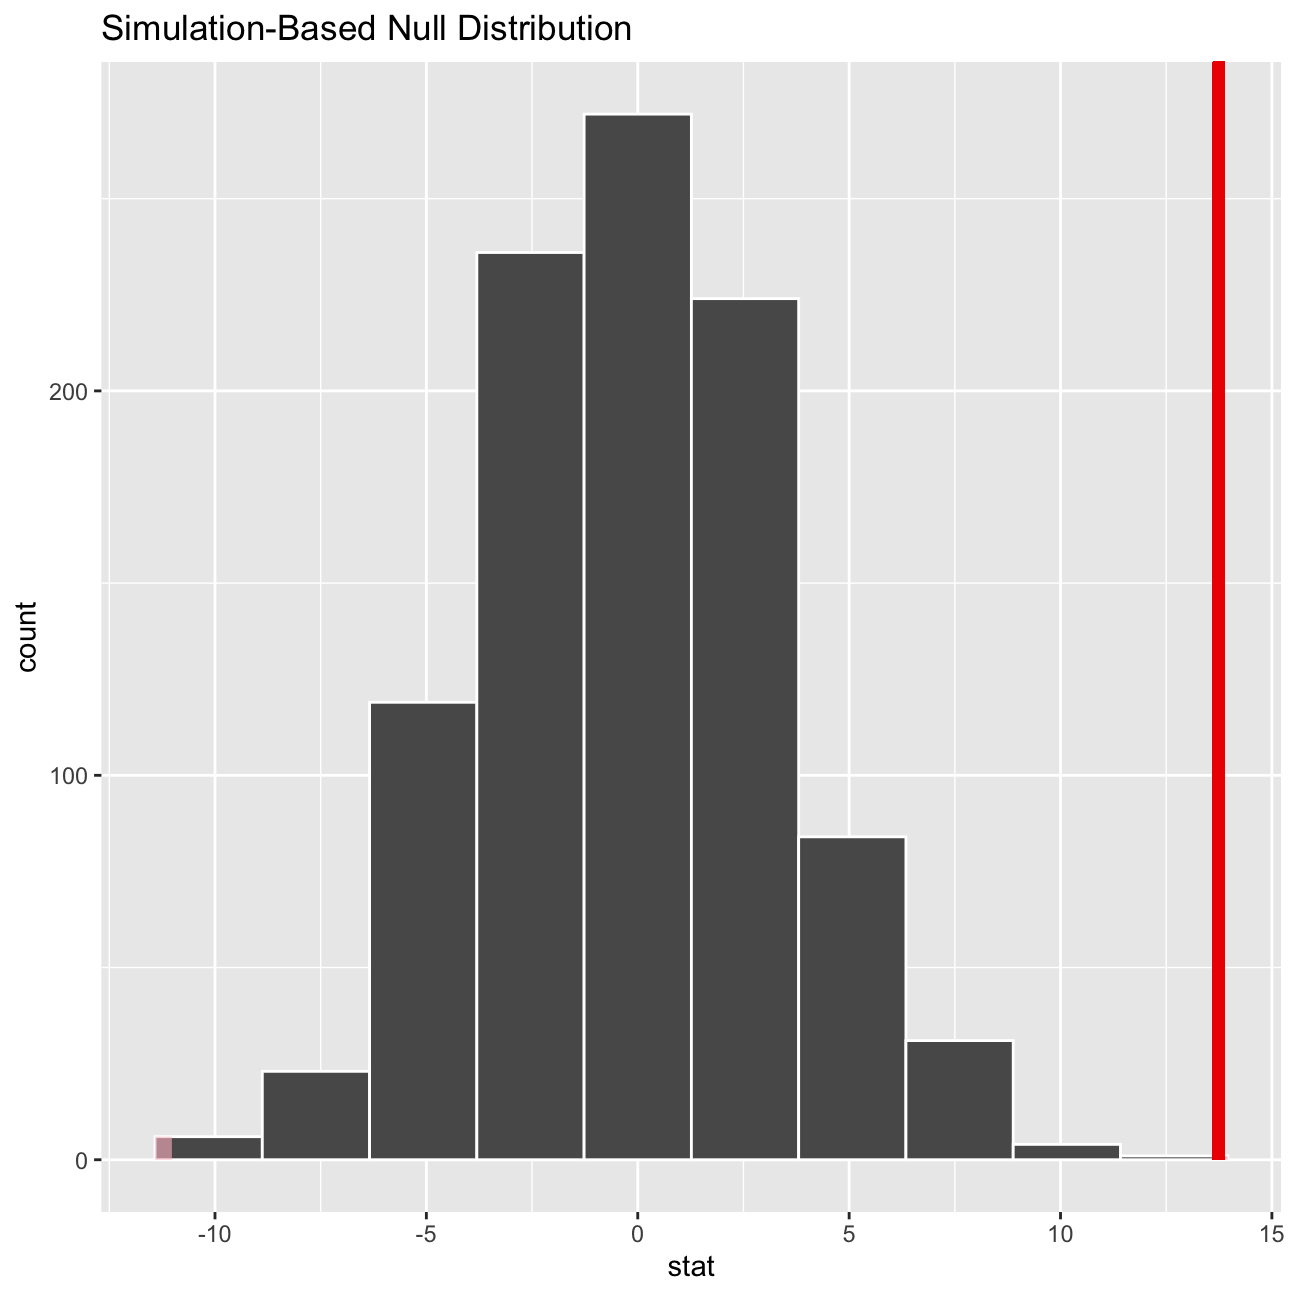
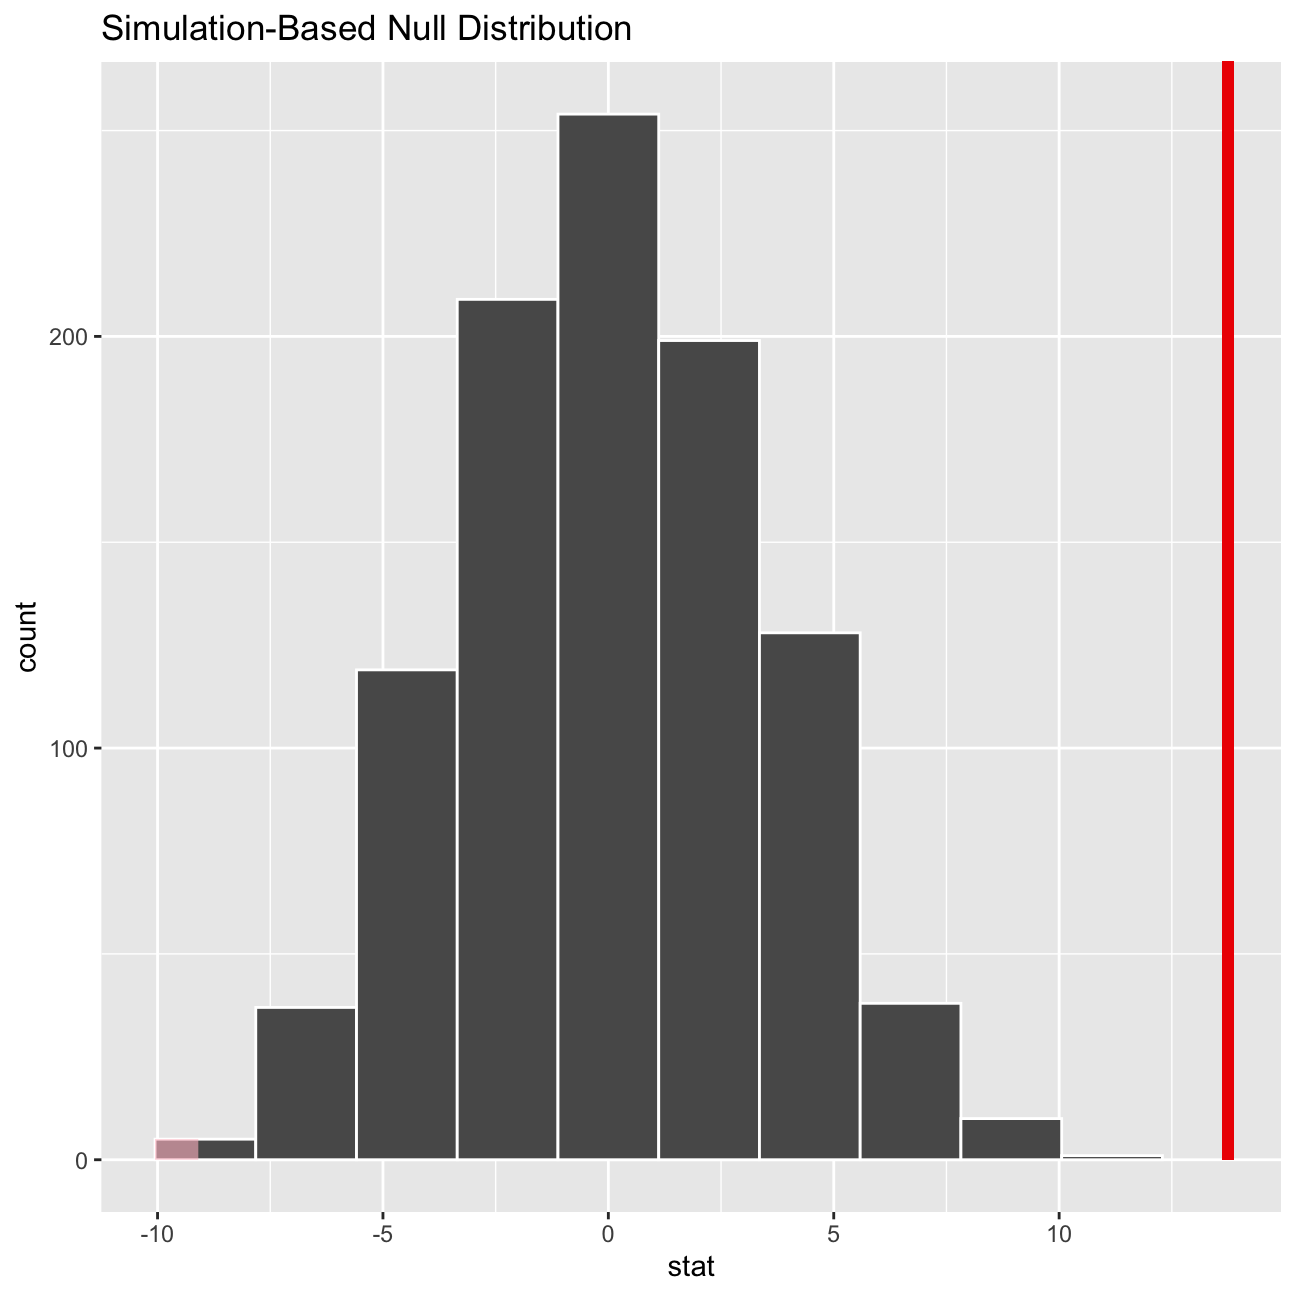
df

diff --git a/public/projects/project4/index.html b/public/projects/project4/index.html
@@ -81,8 +81,8 @@
                             
 
 
-<div id="omega-group---pay-discrimination" class="section level1">
-<h1>Omega Group - Pay Discrimination</h1>
+<p><img src="https://img.jakpost.net/c/2020/05/20/2020_05_20_95707_1589954243._large.jpg" alt="Equal Pay" />
+# Omega Group - Pay Discrimination</p>
 <p>At the last board meeting of Omega Group Plc., the headquarters of a large multinational company, the issue was raised that women were being discriminated in the company, in the sense that the salaries were not the same for male and female executives. A quick analysis of a sample of 50 employees (of which 24 men and 26 women) revealed that the average salary for men was about 8,700 higher than for women. This seemed like a considerable difference, so it was decided that a further analysis of the company salaries was warranted.</p>
 <div id="loading-the-data" class="section level2">
 <h2>Loading the data</h2>
@@ -237,16 +237,16 @@ null_distribution</code></pre>
 <pre><code>## # A tibble: 1,000 x 2
 ##    replicate   stat
 ##        &lt;int&gt;  &lt;dbl&gt;
-##  1         1  4118.
-##  2         2  -973.
-##  3         3  1539.
-##  4         4  3027.
-##  5         5 -1932.
-##  6         6  5738.
-##  7         7 -2725.
-##  8         8 -3362.
-##  9         9  2258.
-## 10        10  -866.
+##  1         1  3068.
+##  2         2   432.
+##  3         3  2696.
+##  4         4 -2692.
+##  5         5 -1155.
+##  6         6  5399.
+##  7         7  1762.
+##  8         8  1547.
+##  9         9 -2775.
+## 10        10   845.
 ## # … with 990 more rows</code></pre>
 <pre class="r"><code># visualize the p-value 
 
@@ -413,16 +413,16 @@ null_distribution</code></pre>
 <pre><code>## # A tibble: 1,000 x 2
 ##    replicate   stat
 ##        &lt;int&gt;  &lt;dbl&gt;
-##  1         1  4118.
-##  2         2  -973.
-##  3         3  1539.
-##  4         4  3027.
-##  5         5 -1932.
-##  6         6  5738.
-##  7         7 -2725.
-##  8         8 -3362.
-##  9         9  2258.
-## 10        10  -866.
+##  1         1  3068.
+##  2         2   432.
+##  3         3  2696.
+##  4         4 -2692.
+##  5         5 -1155.
+##  6         6  5399.
+##  7         7  1762.
+##  8         8  1547.
+##  9         9 -2775.
+## 10        10   845.
 ## # … with 990 more rows</code></pre>
 <pre class="r"><code># Visualize p value 
 
@@ -483,7 +483,6 @@ ggplot(omega, aes(x = experience, y=salary,color=gender))+
   
   NULL</code></pre>
 <p><img src="/projects/project4_files/figure-html/salary_exp_scatter-1.png" width="648" style="display: block; margin: auto;" /></p>
-</div>
 </div>
 <div id="uk-gender-pay-gap-2017" class="section level1">
 <h1>UK Gender Pay Gap 2017</h1>
